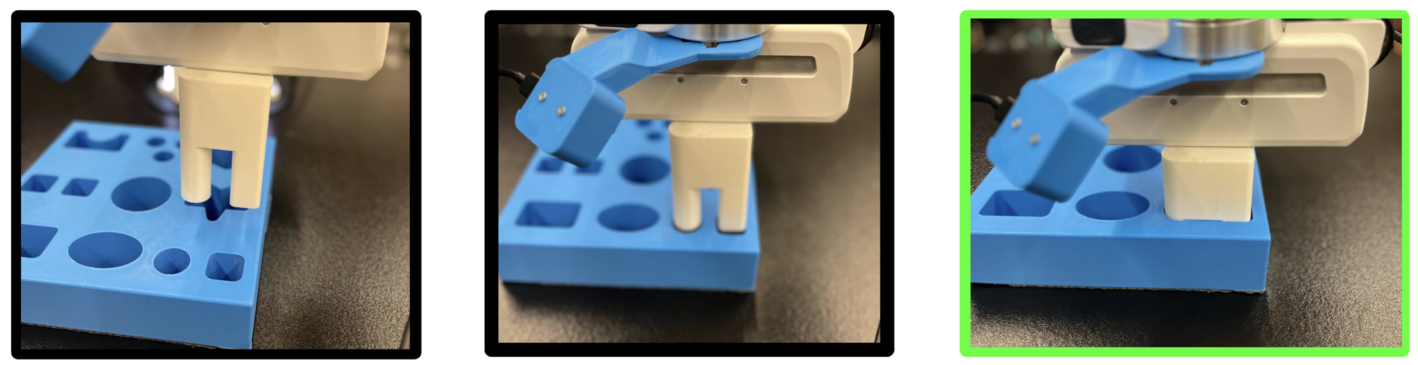
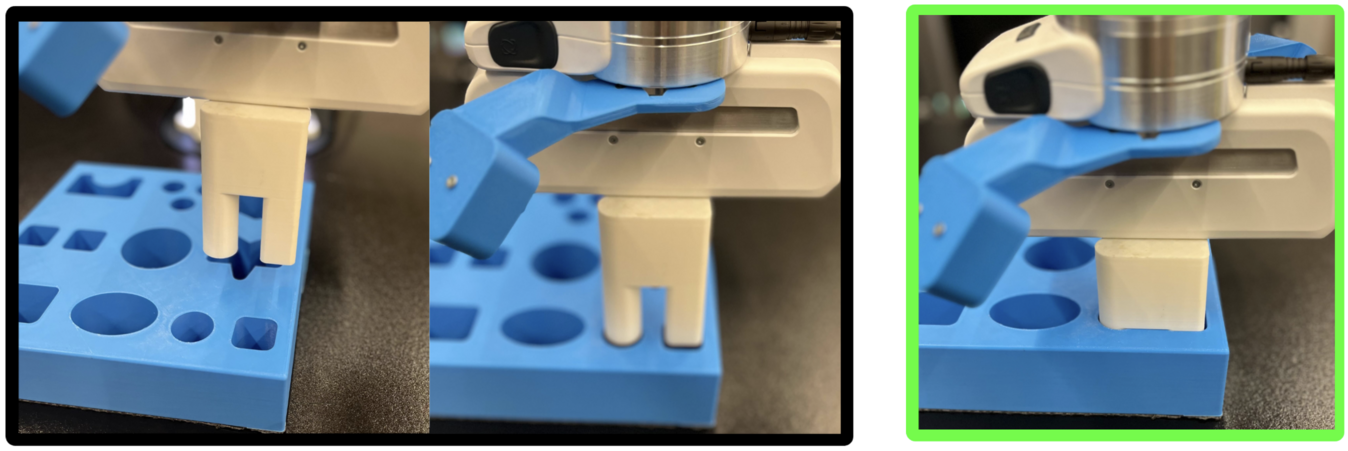
update peg img and minor doc chges

diff --git a/README.md b/README.md
@@ -204,12 +204,15 @@ We demonstrate how to use SERL with real robot manipulators with 4 different tas
 
 When running with a real robot, a separate gym env is needed. For our examples, we isolated the gym env as a client to a robot server. The robot server is a Flask server that sends commands to the robot via ROS. The gym env communicates with the robot server via post requests.
 
-```mermaid
+<script>mermaid.initialize({startOnLoad:true});</script>
+
+<div class="mermaid">
 graph LR
 A[Franka Robot] <-- ROS --> B[Robot Server]
 B <-- HTTP --> C[Gym Env]
 C <-- Lib --> D[Robot Policy]
-```
+</div>
+<script>mermaid.initialize({startOnLoad:true});</script>
 
 This requires the installation of the following packages:
 
@@ -235,8 +238,8 @@ The peg insertion task is best for getting started with running SERL on a real r
 
 #### Procedure
 1. 3D-print (1) **Assembly Object** of choice and (1) corresponding **Assembly Board** from the **Single-Object Manipulation Objects** section of [FMB](https://functional-manipulation-benchmark.github.io/files/index.html). Fix the board to the workspace and grasp the peg with the gripper.
-2. 3D-print (2) wrist camera mounts for the RealSense D405 and install onto the threads on the Robotiq Gripper. Update the camera serial numbers in `REALSENSE_CAMERAS` located in `serl_robot_infra/franka_env/envs/peg_env/config.py`.
-3. The reward is given by checking the end-effector pose matches a fixed target pose. Manually move the arm into a pose where the peg is inserted into the board and update the `TARGET_POSE` in `serl_robot_infra/franka_env/envs/peg_env/config.py` with the measured end-effector pose.
+2. 3D-print (2) wrist camera mounts for the RealSense D405 and install onto the threads on the Robotiq Gripper. Update the camera serial numbers in `REALSENSE_CAMERAS` located in [peg_env/config.py](./serl_robot_infra/franka_env/envs/peg_env/config.py).
+3. The reward is given by checking the end-effector pose matches a fixed target pose. Manually move the arm into a pose where the peg is inserted into the board and update the `TARGET_POSE` in [peg_env/config.py](./serl_robot_infra/franka_env/envs/peg_env/config.py) with the measured end-effector pose.
 4. Set `RANDOM_RESET` to `False` inside the config file to speedup training. Note the policy would only generalize to any board pose when this is set to `True`, but only try this after the basic task works. 
 5. Record 20 demo trajectories with the spacemouse. 
     ```bash
